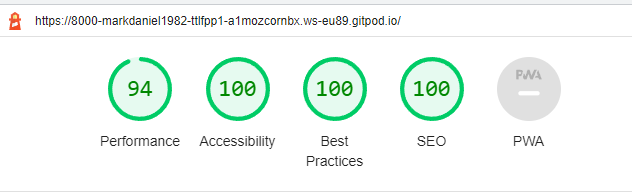
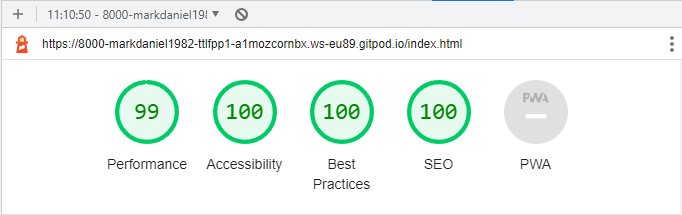
update readme with lighthouse results

diff --git a/README.md b/README.md
@@ -7,7 +7,12 @@ The site is aimed at followers and fans and will allow them to learn more about 
 
 _____
 
-## Features
+## Features and Theme
+
+I have chosen colours that match the brand logo that I have used as the hero image across all pages.
+I used rgba(212, 39, 193, 1) an added a gradient to transparent for the header, footer and any elements within the pages which can be seen in the images above.
+
+### Main Page
 The site lands on a page displaying the brand logo, a short 'about us' section and a gallery of the latest track releases from the label.
 
 ![header and navigation](documentation/images/header.png "Header and Navigation")
@@ -16,23 +21,20 @@ The site lands on a page displaying the brand logo, a short 'about us' section a
 
 There is a hamburger menu which opens to display links to the pages contained within the site (DJ profiles & merch store). This is displayed across all 3 pages to allow for easier, more intuitive navigation.
 
-  * Latest Releases
+  * Latest Releases:
 
 As you scroll down the page, there is a grid view showing the music that has most recently been released by the label, which can be purchased by clicking the link to go to an external site [Toolbox Digital Shop](https://www.toolboxdigitalshop.com/).
 
-* DJ Profiles
+
+### DJ Profiles
 
 On this page, there is biography information to tell the reader more about the co-founders of the record label. The styling follows from the home page to create or more fluid user experience.
 
-* Merchandise
+### Merchandise
 
 Here I have included an embedded version of the merchandise store where the reader can browse and purchase branded clothing items
 
 All pages are responsive when viewed on smaller devices, where the content resized to fit the screen and improve viewability.
-
-## Theme
-I have chosen colours that match the brand logo that I have used as the hero image across all pages.
-I used rgba(212, 39, 193, 1) an added a gradient to transparent for the header, footer and any elements within the pages which can be seen in the images above.
 
 _____
 
@@ -53,8 +55,16 @@ Errors found:
 ![CSS Validation](documentation/images/css_validation.png "CSS Validation")
 
 ### Lighthouse
-* After lighthouse testing, It showed that I needed to add an aria-label to the dropdown menu button. After adding, the lighthouse test was much better. 
+After lighthouse testing, It showed that I needed to add an aria-label to the dropdown menu button. After adding, the lighthouse test was much better. 
+
+Desktop
+![Lighthouse Test Result for Desktop](documentation/images/lighthouse_desktop.png)
+Mobile
+![Lighthouse Test Result for Mobile](documentation/images/lighthouse_mobile.png) 
+
 The only remaining issue was in the "Best Practices" section, where any errors came from the embedded content, not my code.
+
+![Lighthouse Embedded Content Issue](documentation/images/lighthouse_embedded_content_issue.png)
 ___
 
 ### Errors & Debugging
@@ -74,12 +84,20 @@ _____
 ___
 ### Code
 
-* Code for 'latest releases' grid found on [Codepen](https://codepen.io/TexV/pen/pwywNW) and amended to suit my needs
-* Color gradient css code from [w3schools](https://www.w3schools.com/css/css3_gradients.asp) and amended to suit my needs
+* Code for 'latest releases' grid found on [Codepen](https://codepen.io/TexV/pen/pwywNW) and amended to suit my requirements.
+
+* Color gradient css code from [w3schools CSS Gradients](https://www.w3schools.com/css/css3_gradients.asp) and amended to suit my requirements.
+
+* Code and Styling for the dropdown menu taken from [w3schools Hoverable Dropdown Menu](https://www.w3schools.com/howto/howto_js_dropdown.asp) and amended to suit my requirements.
 
 ### Content & Media
 
-* Content from the site, including logos and bio text has been taken from [ttlf.net](ttlf.net) (the brands' current live site) 
+* Content included in the site, including logos and bio text has been taken from [ttlf.net](ttlf.net) (the brands' current live site) and from the TTLF logo pack which was provided to me from the label owners.
+
 * Content and images from latest releases section on homepage has been taken from [toolbox digital shop](https://www.toolboxdigitalshop.com/trip-the-light-fantastic.html)
-* Fonts from Google fonts
+
+## Fonts and Icons 
+ 
+ * Fonts from Google fonts
+
 * Icons from Fontawesome
